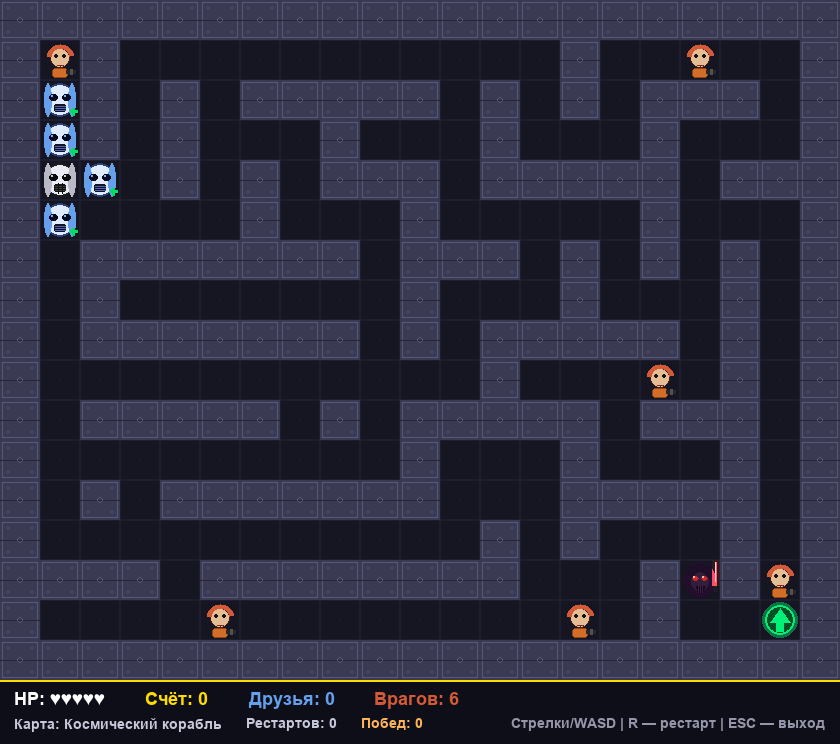
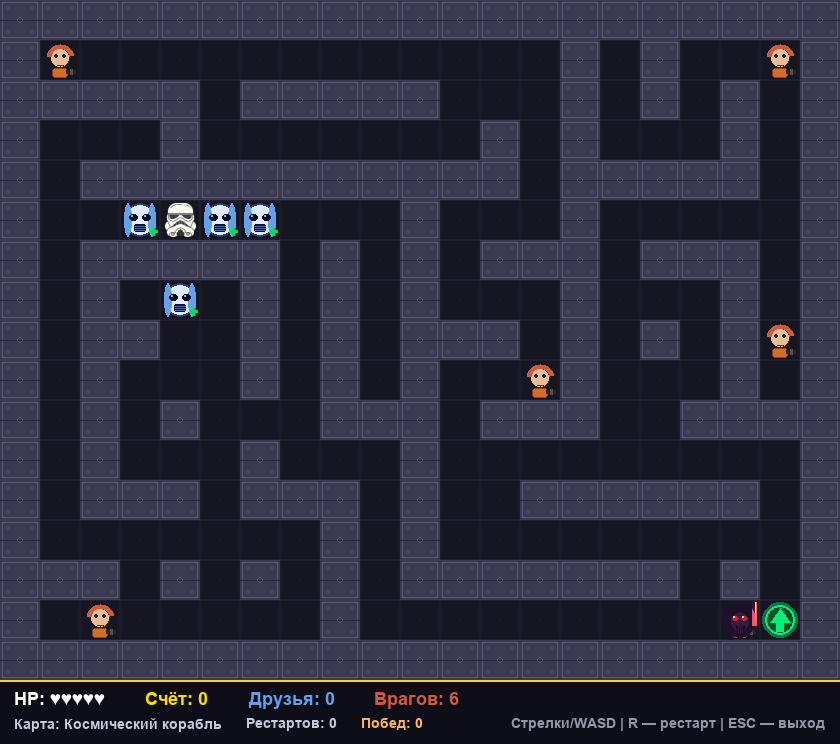
some

diff --git a/assets_gen.py b/assets_gen.py
@@ -1,6 +1,11 @@
 """assets_gen.py — спрайты, лабиринт, цветовые схемы."""
-import pygame
+import os
 import random
+from functools import lru_cache
+
+import pygame
+
+from audio import resource_path
 
 TILE_SIZE = 40
 
@@ -67,7 +72,72 @@ def _surface(size=TILE_SIZE):
     return pygame.Surface((size, size), pygame.SRCALPHA)
 
 
+# ---------- PNG-ассеты персонажа ----------
+ASSETS_DIR      = "assets"
+STORM_FILE_NAME = "stormtrooper.png"
+STORM_MARGIN    = 2          # отступ картинки от края тайла (пиксели)
+
+
+@lru_cache(maxsize=1)
+def _load_stormtrooper_png():
+    """assets/stormtrooper.png, обрезанный и сглаженно вписанный в тайл.
+
+    Прозрачные поля исходника обрезаются (иначе персонаж выглядит мелким),
+    пропорции сохраняются. Картинка читается и масштабируется один раз
+    за запуск (кэш lru_cache).
+    Возвращает None, если PNG нет или он битый — тогда используется
+    процедурный спрайт _draw_stormtrooper().
+    """
+    path = resource_path(ASSETS_DIR, STORM_FILE_NAME)
+    if not os.path.isfile(path):
+        print(f"⚠  Нет файла {path} — штурмовик рисуется кодом")
+        return None
+    try:
+        img = pygame.image.load(path)
+    except pygame.error as e:
+        print(f"⚠  Не удалось прочитать {path}: {e}")
+        return None
+    try:
+        img = img.convert_alpha()
+    except pygame.error:
+        pass                     # видеорежим ещё не создан — это не критично
+
+    # Обрезаем прозрачные поля вокруг шлема
+    if img.get_flags() & pygame.SRCALPHA:
+        bounds = img.get_bounding_rect(min_alpha=8)
+        if bounds.width > 0 and bounds.height > 0:
+            img = img.subsurface(bounds).copy()
+
+    # Вписываем в тайл с сохранением пропорций
+    max_side = TILE_SIZE - STORM_MARGIN * 2
+    w, h = img.get_size()
+    scale = min(max_side / w, max_side / h)
+    size = (max(1, round(w * scale)), max(1, round(h * scale)))
+    return pygame.transform.smoothscale(img, size)
+
+
 def make_stormtrooper_sprite(frame=0):
+    """Кадр штурмовика из PNG-ассета с покачиванием при ходьбе."""
+    base = _load_stormtrooper_png()
+    if base is None:
+        return _draw_stormtrooper(frame)
+
+    s = _surface()
+    sway = [0, -1, 0, 1][frame % 4]      # вверх-вниз
+    lean = [1, 0, -1, 0][frame % 4]      # влево-вправо — «шаг»
+    x = (TILE_SIZE - base.get_width()) // 2 + lean
+    y = (TILE_SIZE - base.get_height()) // 2 + sway
+    s.blit(base, (x, y))
+    return s
+
+
+def make_stormtrooper_frames(count=4):
+    """Набор кадров ходьбы штурмовика для игрока."""
+    return [make_stormtrooper_sprite(i) for i in range(count)]
+
+
+def _draw_stormtrooper(frame=0):
+    """Процедурный штурмовик — фолбэк, если PNG-ассета нет."""
     s = _surface()
     sway = [0, -1, 0, 1][frame % 4]
     pygame.draw.ellipse(s, (235, 235, 245), (4, 3 + sway, 32, 34))

diff --git a/.tools/make_assets.py b/.tools/make_assets.py
@@ -2,6 +2,10 @@
 make_assets.py — генерация PNG-спрайтов для игры Star Wars Maze.
 Запусти один раз: python make_assets.py
 Создаст папку assets/ с файлами персонажей.
+
+ВНИМАНИЕ: assets/stormtrooper.png — художественный ассет, его игра
+загружает как спрайт игрока. Здесь он НЕ перезаписывается: процедурная
+версия сохраняется отдельно в stormtrooper_proc.png.
 """
 import pygame
 import os
@@ -20,8 +24,8 @@ def new_surface():
     return s
 
 
-# ==================== ШТУРМОВИК ====================
-def make_stormtrooper():
+# ==================== ШТУРМОВИК (процедурная версия) ====================
+def make_stormtrooper_proc():
     s = new_surface()
     # Шлем (белый овал)
     pygame.draw.ellipse(s, (240, 240, 240), (4, 3, 32, 34))
@@ -43,7 +47,7 @@ def make_stormtrooper():
     # "Рот" — вертикальные линии
     pygame.draw.line(s, (15, 15, 15), (18, 23), (18, 33), 1)
     pygame.draw.line(s, (15, 15, 15), (22, 23), (22, 33), 1)
-    pygame.image.save(s, os.path.join(OUT_DIR, "stormtrooper.png"))
+    pygame.image.save(s, os.path.join(OUT_DIR, "stormtrooper_proc.png"))
     return s
 
 
@@ -165,7 +169,7 @@ def make_floor():
 
 # ==================== ЗАПУСК ====================
 if __name__ == "__main__":
-    make_stormtrooper()
+    make_stormtrooper_proc()
     make_rebel()
     make_vader()
     make_friend()

diff --git a/starwars.py b/starwars.py
@@ -7,7 +7,7 @@ from collections import deque
 
 from assets_gen import (
     TILE_SIZE, THEMES, generate_maze,
-    make_stormtrooper_sprite, make_rebel_sprite, make_vader_sprite,
+    make_stormtrooper_frames, make_rebel_sprite, make_vader_sprite,
     make_friend_sprite, make_exit_sprite,
     make_wall_surface, make_floor_surface,
 )
@@ -90,7 +90,7 @@ class Game:
             self.use_freetype = False
 
         # Спрайты
-        self.storm_frames  = [make_stormtrooper_sprite(i) for i in range(4)]
+        self.storm_frames  = make_stormtrooper_frames(4)   # PNG assets/stormtrooper.png
         self.rebel_sprite  = make_rebel_sprite()
         self.vader_frames  = [make_vader_sprite(i) for i in range(8)]
         self.friend_sprite = make_friend_sprite()

diff --git a/README.md b/README.md
@@ -20,9 +20,12 @@
 - 🟢 **Выход** — зелёный портал. Дошёл — победа, счёт сохраняется, а следующий
   уровень станет сложнее: Вейдер быстрее, повстанцев больше.
 
-Вся графика (спрайты, стены, пол) рисуется кодом, а звуки шагов, подбора, бластера,
-взмаха меча и дыхания Вейдера синтезируются процедурно. Фоновая музыка и звуки
-победы/поражения подхватываются из папок `sounds/` и `sounds_event/`.
+Штурмовик-игрок берётся из готового PNG-ассета `assets/stormtrooper.png`
+(масштабируется под тайл и покачивается при ходьбе; если файла нет —
+спрайт рисуется кодом). Остальная графика (стены, пол, враги, выход)
+рисуется кодом, а звуки шагов, подбора, бластера, взмаха меча и дыхания
+Вейдера синтезируются процедурно. Фоновая музыка и звуки победы/поражения
+подхватываются из папок `sounds/` и `sounds_event/`.
 
 ### Карты (темы)
 
@@ -56,7 +59,7 @@ python starwars.py
 
 ```powershell
 pip install pyinstaller
-pyinstaller --noconfirm --onedir --windowed --name "StarWarsMaze" --icon "icon.ico" --add-data "sounds;sounds" --add-data "sounds_event;sounds_event" --hidden-import=pygame --hidden-import=pygame.freetype --collect-all pygame starwars.py
+pyinstaller --noconfirm --onedir --windowed --name "StarWarsMaze" --icon "icon.ico" --add-data "sounds;sounds" --add-data "sounds_event;sounds_event" --add-data "assets;assets" --hidden-import=pygame --hidden-import=pygame.freetype --collect-all pygame starwars.py
 ```
 
 ## Структура проекта
@@ -70,7 +73,7 @@ audio.py           — музыка, звуки событий и процеду
   make_screenshot.py — скриншот игры в .stems/screenshot.png
 sounds/            — фоновая музыка (*.mp3)
 sounds_event/      — win.mp3, fall.mp3, rebels.mp3
-assets/            — готовые PNG-спрайты персонажей
+assets/            — PNG-спрайты персонажей (stormtrooper.png — спрайт игрока)
 .stems/            — скриншоты для README
 ```
 
